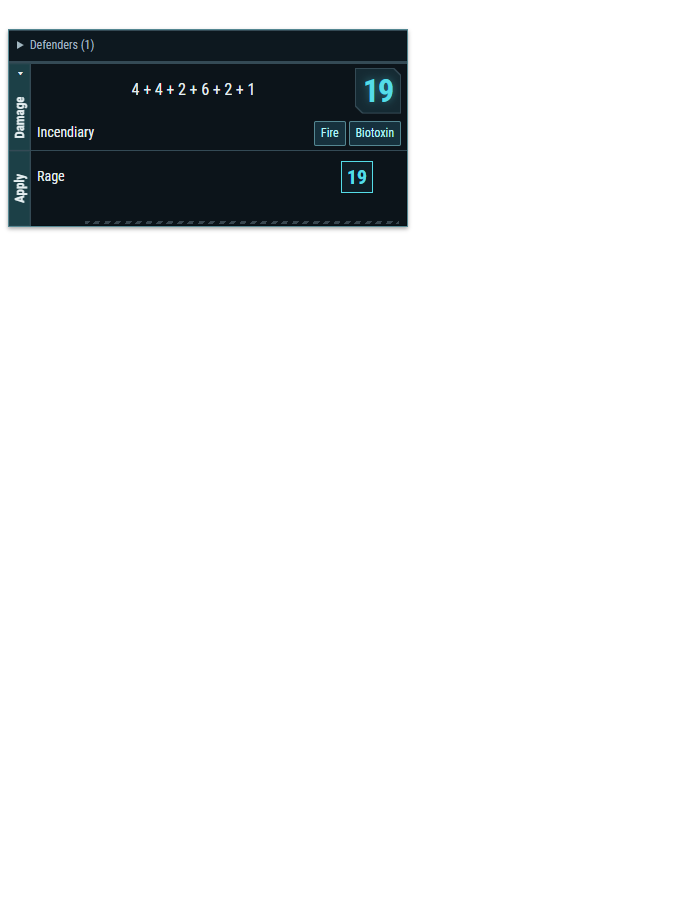
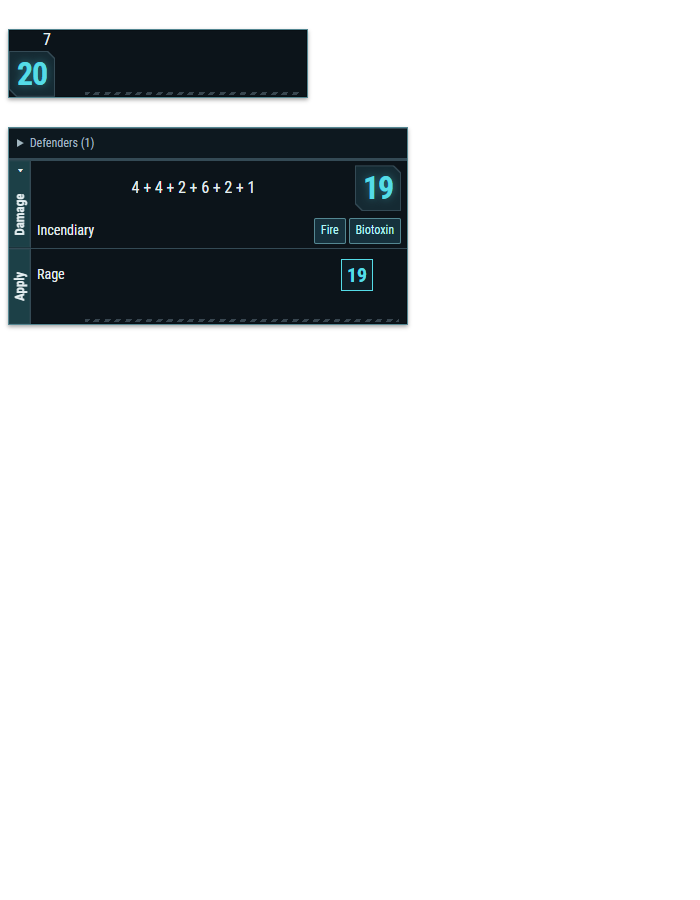
Release v1.0.1 with chat and effect performance diagnostics

Changed region(s): [[0.0, 0.0311, 0.6, 0.3733]]

diff --git a/src/chat-presentation.ts b/src/chat-presentation.ts
@@ -400,6 +400,42 @@ function balanceDamageDice(group: HTMLElement): void {
   }
 }
 function closePopup(): void { popup?.remove(); popup = undefined; owner?.removeAttribute('aria-describedby'); owner = undefined; }
+
+/** Decode Foundry's saved result only on demand. Keep the source outside the chat DOM. */
+function savedRollOpener(trigger: HTMLElement, display: (details: HTMLElement) => void) {
+  let cached: {data: string; details: Promise<HTMLElement>; failed?: boolean} | undefined;
+  let latest = 0;
+  return (activate = false): boolean => {
+    const data = trigger.dataset.roll;
+    if (!data || (cached?.data === data && cached.failed)) return false;
+    if (cached?.data !== data) {
+      try {
+        const roll = Roll.fromJSON(decodeURIComponent(data));
+        cached = {data, details: roll.getTooltip().then(html => {
+          const source = document.createElement('div');
+          const formula = document.createElement('div'); formula.textContent = roll.formula;
+          const rendered = document.createElement('div'); rendered.innerHTML = html;
+          source.append(formula, rendered);
+          return source;
+        })};
+      } catch { return false; }
+    }
+    const entry = cached;
+    const request = ++latest;
+    closePopup(); owner = trigger;
+    const stillOpen = () => request === latest && owner === trigger && trigger.isConnected && trigger.dataset.roll === data;
+    void entry.details.then(details => {
+      if (stillOpen()) display(details);
+    }, () => {
+      entry.failed = true;
+      if (stillOpen()) {
+        closePopup();
+        if (activate) trigger.click(); // Let Foundry handle the original activation.
+      }
+    });
+    return true;
+  };
+}
 /** Works while Foundry's render hook still owns a detached message element. */
 function isShown(element: Element): boolean {
   for (let node: Element | null = element; node; node = node.parentElement) {
@@ -621,6 +657,10 @@ function relevantCardChange(record:MutationRecord):boolean {
     || record.target instanceof Element&&!!record.target.closest('.d6-dice-div, .pneuma-effect-resistance, .pneuma-instant-damage, .pneuma-aoe-response');
 }
 export function installRollPopovers(root: HTMLElement): void {
+  const finish=globalThis.pneumaPerformance?.work('pneuma-visualtools','chat.format',root.dataset?.messageId);
+  try { installRollPopoversContent(root); } finally { finish?.(); }
+}
+function installRollPopoversContent(root: HTMLElement):void {
   // Saved cards may have the former target-controls disclosure. Keep live
   // controls and their handlers while restoring direct GM actions.
   for (const menu of Array.from(root.querySelectorAll('.pvt-target-controls'))) {
@@ -659,10 +699,12 @@ export function installRollPopovers(root: HTMLElement): void {
     observer.observe(root, {childList: true, subtree: true});
   }
   damageDiceObserver ??= new ResizeObserver(entries => {
+    const finish = globalThis.pneumaPerformance?.work('pneuma-visualtools','chat.diceResize');
     for (const entry of entries) {
       if (!entry.target.isConnected) { damageDiceObserver!.unobserve(entry.target); observedDice.delete(entry.target as HTMLElement); continue; }
       balanceDamageDice(entry.target as HTMLElement);
     }
+    finish?.();
   });
   root.querySelectorAll<HTMLElement>('.d6-dice-div').forEach(group => {
     group.classList.add('pneuma-balanced-dice'); balanceDamageDice(group);
@@ -673,23 +715,7 @@ export function installRollPopovers(root: HTMLElement): void {
     window.addEventListener('scroll', closePopup, {capture: true, passive: true});
     window.addEventListener('resize', closePopup);
   }
-  // Native enriched inline results store the evaluated roll in their DOM.
-  // Rendering its tooltip does not roll again or consult private message flags.
-  for (const link of Array.from(root.querySelectorAll<HTMLElement>('.inline-roll.inline-result[data-roll]'))) {
-    if (link.dataset.pvtPreparing) continue;
-    link.dataset.pvtPreparing = 'true';
-    try {
-      const roll = Roll.fromJSON(decodeURIComponent(link.dataset.roll!));
-      void roll.getTooltip().then(html => {
-        if (!root.isConnected) return;
-        const source = document.createElement('div'); source.className = 'pneuma-popover-source';
-        const formula = document.createElement('div'); formula.textContent = roll.formula; source.append(formula);
-        const rendered = document.createElement('div'); rendered.innerHTML = html; source.append(rendered);
-        link.after(source); link.dataset.pvtInlineSource = 'true'; installRollPopovers(root);
-      }).catch(() => { /* Keep native behavior if the saved roll cannot render. */ });
-    } catch { /* Malformed or unsupported saved rolls remain native. */ }
-  }
-  for (const trigger of Array.from(root.querySelectorAll<HTMLElement>('.d10-number-div, .d6-number-div, .generic-number-div, .dice-total, .pneuma-applied-number, .pneuma-mini-value, .pneuma-inline-roll > summary, [data-pvt-inline-source]'))) {
+  for (const trigger of Array.from(root.querySelectorAll<HTMLElement>('.d10-number-div, .d6-number-div, .generic-number-div, .dice-total, .pneuma-applied-number, .pneuma-mini-value, .pneuma-inline-roll > summary, .inline-roll.inline-result[data-roll]'))) {
     const inline = trigger.closest('.pneuma-inline-roll');
     // The summary owns the entire compact roll; ignore its concealed totals.
     if (inline && trigger.tagName !== 'SUMMARY') continue;
@@ -713,32 +739,33 @@ export function installRollPopovers(root: HTMLElement): void {
     const linkedDetails = detailClass ? Array.from(scope?.querySelectorAll<HTMLElement>('[class]') ?? []).find(el => el.classList.contains(detailClass)) : undefined;
     const controlledId = trigger.getAttribute('aria-controls');
     const controlledDetails = controlledId ? Array.from(root.querySelectorAll<HTMLElement>('[id]')).find(el => el.id === controlledId) : undefined;
-    let details = trigger.dataset.pvtInlineSource ? trigger.nextElementSibling as HTMLElement : inline?.querySelector<HTMLElement>('.pneuma-inline-roll-details') ?? controlledDetails
+    const savedRoll = trigger.matches('.inline-roll.inline-result[data-roll]');
+    let details = savedRoll ? undefined : inline?.querySelector<HTMLElement>('.pneuma-inline-roll-details') ?? controlledDetails
       ?? linkedDetails ?? scope?.querySelector<HTMLElement>('.d10-data-details, .d6-data-details, .generic-data-details, .pneuma-applied-details, .dice-tooltip');
     // Combat Tools uses the same DOM marker for native click disclosures.
     // Only this adapter's actual listener registration proves a hover exists.
-    if (!details) {
+    if (!details && !savedRoll) {
       details = document.createElement('div');
       details.textContent = trigger.getAttribute('aria-label') || `Roll total: ${trigger.textContent?.trim()}`;
       details.className = 'pneuma-popover-source'; trigger.after(details);
     }
     // Keep native undo actionable outside the now-hover-only breakdown.
-    const undo = details.querySelector<HTMLElement>('[data-action="reverseDamage"]');
+    const undo = details?.querySelector<HTMLElement>('[data-action="reverseDamage"]');
     if (undo) {
       undo.title ||= 'Reverse damage'; undo.classList.add('pneuma-damage-undo');
       if (trigger.classList.contains('pneuma-applied-number')) trigger.parentElement?.append(undo);
       else scope?.append(undo);
     }
     const dice = scope?.querySelector<HTMLElement>('.d10-dice-div, .d6-dice-div, .generic-dice-div');
-    const detailsShown = isShown(details);
     // Every saved total remains inspectable, including base rolls without modifiers.
     const rollLabel = trigger.dataset.pvtRollLabel || trigger.getAttribute('aria-label') || (effect ? isEffectDamage ? 'Damage roll' : 'Resistance roll' : undefined);
     installedPopoverTriggers.add(trigger);
     trigger.dataset.pvtPopover = 'true'; trigger.tabIndex = 0; trigger.removeAttribute('title');
     trigger.setAttribute('aria-label', `Roll ${trigger.textContent?.trim()}. Show roll details`);
-    if (!detailsShown) details.classList.add('pneuma-popover-source');
+    if (details && !isShown(details)) details.classList.add('pneuma-popover-source');
     if (inline instanceof HTMLDetailsElement) inline.open = false;
-    const show = () => {
+    const display = (details: HTMLElement) => {
+      const finish = globalThis.pneumaPerformance?.work('pneuma-visualtools','chat.hover',root.dataset.messageId);
       closePopup(); owner = trigger;
       popup = document.createElement('div'); popup.id = 'pneuma-roll-popover'; popup.setAttribute('role', 'tooltip');
       popup.className = 'pneuma-roll-popover';
@@ -813,13 +840,15 @@ export function installRollPopovers(root: HTMLElement): void {
       const rect = trigger.getBoundingClientRect(); const box = popup.getBoundingClientRect();
       popup.style.left = `${Math.max(8, Math.min(rect.right - box.width, innerWidth - box.width - 8))}px`;
       popup.style.top = `${Math.max(8, Math.min(rect.top - box.height - 8, innerHeight - box.height - 8))}px`;
+      finish?.();
     };
-    trigger.addEventListener('mouseenter', show); trigger.addEventListener('focus', show);
+    const show = savedRoll ? savedRollOpener(trigger, display) : () => { display(details!); return true; };
+    trigger.addEventListener('mouseenter', () => show()); trigger.addEventListener('focus', () => show());
     trigger.addEventListener('mouseleave', closePopup); trigger.addEventListener('blur', closePopup);
-    trigger.addEventListener('click', event => { event.preventDefault(); event.stopImmediatePropagation(); show(); }, true);
+    trigger.addEventListener('click', event => { if (show(true)) { event.preventDefault(); event.stopImmediatePropagation(); } }, true);
     trigger.addEventListener('keydown', event => {
       if (event.key === 'Escape') closePopup();
-      if (event.key === 'Enter' || event.key === ' ') { event.preventDefault(); event.stopImmediatePropagation(); show(); }
+      if ((event.key === 'Enter' || event.key === ' ') && show(true)) { event.preventDefault(); event.stopImmediatePropagation(); }
     }, true);
   }
 }

diff --git a/src/remaining-effects.ts b/src/remaining-effects.ts
@@ -52,7 +52,7 @@ export function registerRemainingEffects():void {
   for(const [kind,screen] of screens)if(active.has(kind))screen.start();else screen.stop();
   publish(Array.from(held,([uuid,entries])=>[uuid,[...entries]] as const));
  };
- const refresh=frameRefresh(update),sync=refresh.schedule;
+ const refresh=frameRefresh(update,'remaining-effects'),sync=refresh.schedule;
  Hooks.on('canvasTearDown',refresh.cancel);
  window.addEventListener('pagehide',refresh.cancel);
  const module=game.modules!.get('pneuma-visualtools') as unknown as {api?:Record<string,unknown>};
@@ -69,7 +69,7 @@ export function registerRemainingEffects():void {
  Hooks.on('deleteToken',(token:TokenDocument)=>{if(!token.actorLink&&token.actor)forget(token.actor.uuid);});
  Hooks.on('updateWorldTime',()=>{candidates.time();sync();});
  Hooks.on('canvasTearDown',candidates.clear);
- for(const hook of ['updateActor','createItem','updateItem','deleteItem','createActiveEffect','updateActiveEffect','deleteActiveEffect'])Hooks.on(hook,(doc:Actor|Item|ActiveEffect)=>{candidates.mark(doc);sync();});
+ for(const hook of ['updateActor','createItem','updateItem','deleteItem','createActiveEffect','updateActiveEffect','deleteActiveEffect'])Hooks.on(hook,(doc:Actor|Item|ActiveEffect)=>{candidates.mark(doc);sync(doc);});
  Hooks.on('createToken',()=>{candidates.all();sync();});
  Hooks.on('updateToken',(_doc:TokenDocument,changes:Record<string,unknown>)=>{if(tokenEffectsChanged(changes)){if('actorId' in changes||'actorLink' in changes)candidates.all();else candidates.mark(_doc);sync();}});
  const stop=()=>{for(const screen of screens.values())screen.stop();};Hooks.on('canvasTearDown',stop);document.addEventListener('visibilitychange',()=>{if(document.hidden){refresh.cancel();update();}else sync();});window.addEventListener('pagehide',stop);

diff --git a/src/effect-refresh.ts b/src/effect-refresh.ts
@@ -36,9 +36,22 @@ export function conditionPublisher(hook:string){
 /** Coalesce document bursts while retaining synchronous condition bookkeeping. */
 const pendingRefreshes=new Set<()=>void>();
 let refreshFrame=0;
-export function frameRefresh(work:()=>void) {
- const run=()=>work();
- const schedule=()=>{
+export function frameRefresh(work:()=>void, label="screen visibility") {
+ let pendingCapture:typeof globalThis.pneumaPerformance;
+ const causes=new Set<string>();
+ const run=()=>{
+   const active=globalThis.pneumaPerformance;
+   const finish=active?.work('pneuma-visualtools',label,undefined,active===pendingCapture?[...causes].join(','):undefined);
+   causes.clear();pendingCapture=undefined;
+   try {work();} finally {finish?.();}
+ };
+ const schedule=(source?:unknown)=>{
+   const active=globalThis.pneumaPerformance;
+   if(active){
+     if(pendingCapture!==active){causes.clear();pendingCapture=active;}
+     const uuid=(source as {uuid?:string}|null)?.uuid;
+     if(typeof uuid==="string" && causes.size<16)causes.add(uuid);
+   }
   pendingRefreshes.add(run);
   if(!refreshFrame)refreshFrame=requestAnimationFrame(()=>{
    refreshFrame=0;
@@ -49,7 +62,7 @@ export function frameRefresh(work:()=>void) {
    }});
   });
  };
- const cancel=()=>{pendingRefreshes.delete(run);if(!pendingRefreshes.size&&refreshFrame){cancelAnimationFrame(refreshFrame);refreshFrame=0;}};
+ const cancel=()=>{causes.clear();pendingCapture=undefined;pendingRefreshes.delete(run);if(!pendingRefreshes.size&&refreshFrame){cancelAnimationFrame(refreshFrame);refreshFrame=0;}};
  return {schedule,cancel};
 }
 

diff --git a/src/substance-effects.ts b/src/substance-effects.ts
@@ -66,7 +66,7 @@ export function registerSubstanceEffects():void {
   if(visible&&hasBlueGlass(actor??undefined,effects))glass.start();else glass.stop();
   if(visible&&hasSmash(actor??undefined,effects))smash.start();else smash.stop();
  };
- const refresh=frameRefresh(update),sync=refresh.schedule;
+ const refresh=frameRefresh(update,'substance-effects'),sync=refresh.schedule;
  Hooks.on('canvasTearDown',refresh.cancel);
  window.addEventListener('pagehide',refresh.cancel);
  Hooks.on('pneumaVisualToolsScreenEffectsChanged',sync);
@@ -88,7 +88,7 @@ export function registerSubstanceEffects():void {
  Hooks.on('deleteToken',()=>{candidates.all();sync();});
  Hooks.on('updateWorldTime',()=>{candidates.time();sync();});
  Hooks.on('canvasTearDown',candidates.clear);
- for(const hook of ['updateActor','createItem','updateItem','deleteItem','createActiveEffect','updateActiveEffect','deleteActiveEffect'])Hooks.on(hook,(doc:Actor|Item|ActiveEffect)=>{candidates.mark(doc);sync();});
+ for(const hook of ['updateActor','createItem','updateItem','deleteItem','createActiveEffect','updateActiveEffect','deleteActiveEffect'])Hooks.on(hook,(doc:Actor|Item|ActiveEffect)=>{candidates.mark(doc);sync(doc);});
  Hooks.on('createToken',()=>{candidates.all();sync();});
  Hooks.on('updateToken',(_doc:TokenDocument,changes:Record<string,unknown>)=>{if(tokenEffectsChanged(changes)){if('actorId' in changes||'actorLink' in changes)candidates.all();else candidates.mark(_doc);sync();}});
  Hooks.on('canvasTearDown',()=>{poison.stop();glass.stop();smash.stop();});

diff --git a/src/chat-cards.ts b/src/chat-cards.ts
@@ -53,6 +53,10 @@ function portraitFor(message: ChatMessage): {src: string; actor?: string; token?
 }
 
 export function renderChatCard(message: ChatMessage, root: HTMLElement): void {
+  const finish=globalThis.pneumaPerformance?.work('pneuma-visualtools','chat.skin',message.id ?? undefined);
+  try { renderChatCardContent(message,root); } finally { finish?.(); }
+}
+function renderChatCardContent(message: ChatMessage, root: HTMLElement):void {
   if (game.settings!.get(MODULE_ID, 'chatSkin') === 'off') return;
   const header = root.querySelector<HTMLElement>(".message-header");
   // Never reconstruct a header or content removed by native visibility handling.
@@ -229,6 +233,7 @@ export function registerChatCards(): void {
   });
   Hooks.on("renderChatMessage", (message: ChatMessage, html: JQuery) => {
     if (game.settings!.get(MODULE_ID, "chatCards") && game.settings!.get(MODULE_ID, 'chatSkin') !== 'off' && html[0]) {
+      const finish=globalThis.pneumaPerformance?.work(MODULE_ID,'chat.render',message.id ?? undefined);
       renderChatCard(message, html[0]);
       if (html[0].classList.contains('pneuma-chat-card')) {
         if (!html[0].classList.contains('pneuma-layout-participants')) arrangeChatCard(html[0], message);
@@ -238,6 +243,7 @@ export function registerChatCards(): void {
         });
         installRollPopovers(html[0]);
       }
+      finish?.();
     }
   });
 }

diff --git a/src/chat-dice.ts b/src/chat-dice.ts
@@ -66,6 +66,10 @@ function setImage(image: HTMLImageElement, native: string, file: string): void {
   if (image.getAttribute('src') !== state.candidates[0]) image.setAttribute('src', state.candidates[0]!);
 }
 export function replaceChatDice(root: HTMLElement): void {
+  const finish=globalThis.pneumaPerformance?.work('pneuma-visualtools','chat.dice',root.dataset?.messageId);
+  try { replaceChatDiceContent(root); } finally { finish?.(); }
+}
+function replaceChatDiceContent(root: HTMLElement):void {
   if(!diceEnabled()){
     observed.get(root)?.disconnect();observed.delete(root);
     // Untouched cards need no image scan while the feature is off.

diff --git a/src/fire-effects.ts b/src/fire-effects.ts
@@ -10,7 +10,7 @@ export function registerFireEffects():void {
   const actor=selected?.length===1?selected[0]!.actor:game.user?.character;
   const strength=burningStrength(actor??undefined,actor?actorEffectSnapshot(actor).native:undefined);if(strength)flames.start(strength);else flames.stop();
  };
- const refresh=frameRefresh(update),sync=refresh.schedule;
+ const refresh=frameRefresh(update,'fire-effects'),sync=refresh.schedule;
  Hooks.on('canvasTearDown',refresh.cancel);
  window.addEventListener('pagehide',refresh.cancel);
  Hooks.on('pneumaVisualToolsScreenEffectsChanged',sync);

diff --git a/src/humanity-effects.ts b/src/humanity-effects.ts
@@ -15,7 +15,7 @@ export function registerHumanityEffects():void {
   const value=(actor?.system as {derivedStats?:{humanity?:{value?:unknown}}}|undefined)?.derivedStats?.humanity?.value;
   const stage=humanityStage(value);if(stage)overlay.start(stage);else overlay.stop();
  };
- const refresh=frameRefresh(update),sync=refresh.schedule;
+ const refresh=frameRefresh(update,'humanity-effects'),sync=refresh.schedule;
  Hooks.on('canvasTearDown',refresh.cancel);
  window.addEventListener('pagehide',refresh.cancel);
  Hooks.on('pneumaVisualToolsScreenEffectsChanged',sync);

diff --git a/src/flashbang-effects.ts b/src/flashbang-effects.ts
@@ -27,7 +27,7 @@ export function registerFlashbangEffects():void {
    const animation=pulse.animate([{opacity:1},{opacity:.8,offset:.15},{opacity:0}],{duration:1100,easing:'ease-out'});animation.onfinish=()=>{pulse.remove();if(flash===pulse)flash=undefined;};
   }
  };
- const refresh=frameRefresh(update),sync=refresh.schedule;
+ const refresh=frameRefresh(update,'flashbang-effects'),sync=refresh.schedule;
  Hooks.on('canvasTearDown',refresh.cancel);
  window.addEventListener('pagehide',refresh.cancel);
  watchScreenTokenVisibility(sync);

diff --git a/src/token-effects.ts b/src/token-effects.ts
@@ -98,7 +98,7 @@ export function registerTokenEffects():void {
  // Condition state is independent of movement and retained while a token is hidden.
  const states=new Map<Token,{key:string;dazzleCreated?:number;timed:boolean}>();
  const pending=new Set<Token>();let all=true;
- const batch=frameRefresh(flush);
+ const batch=frameRefresh(flush,'token-effects');
  function queue(token?:Token) {if(token)pending.add(token);else all=true;batch.schedule();}
  function sync(){queue();}
  function tick(delta:number) {

diff --git a/src/electrical-effects.ts b/src/electrical-effects.ts
@@ -31,7 +31,7 @@ export function registerElectricalEffects():void {
   if(visible&&hasEMP(actor??undefined))emp.start();else emp.stop();
   publish(Array.from(held,([uuid,entries])=>[uuid,[...entries]] as const));
  };
- const refresh=frameRefresh(update),sync=refresh.schedule;
+ const refresh=frameRefresh(update,'electrical-effects'),sync=refresh.schedule;
  Hooks.on('canvasTearDown',refresh.cancel);
  window.addEventListener('pagehide',refresh.cancel);
  const activate=(actor:Actor,kind:ElectricalKind)=>{

diff --git a/src/performance.d.ts b/src/performance.d.ts
@@ -1,0 +1,4 @@
+/** Optional client-local instrumentation supplied by Combat Tools during a capture. */
+declare var pneumaPerformance: {
+  work(module:string, handler:string, card?:string, cause?:string):()=>void;
+} | undefined;
